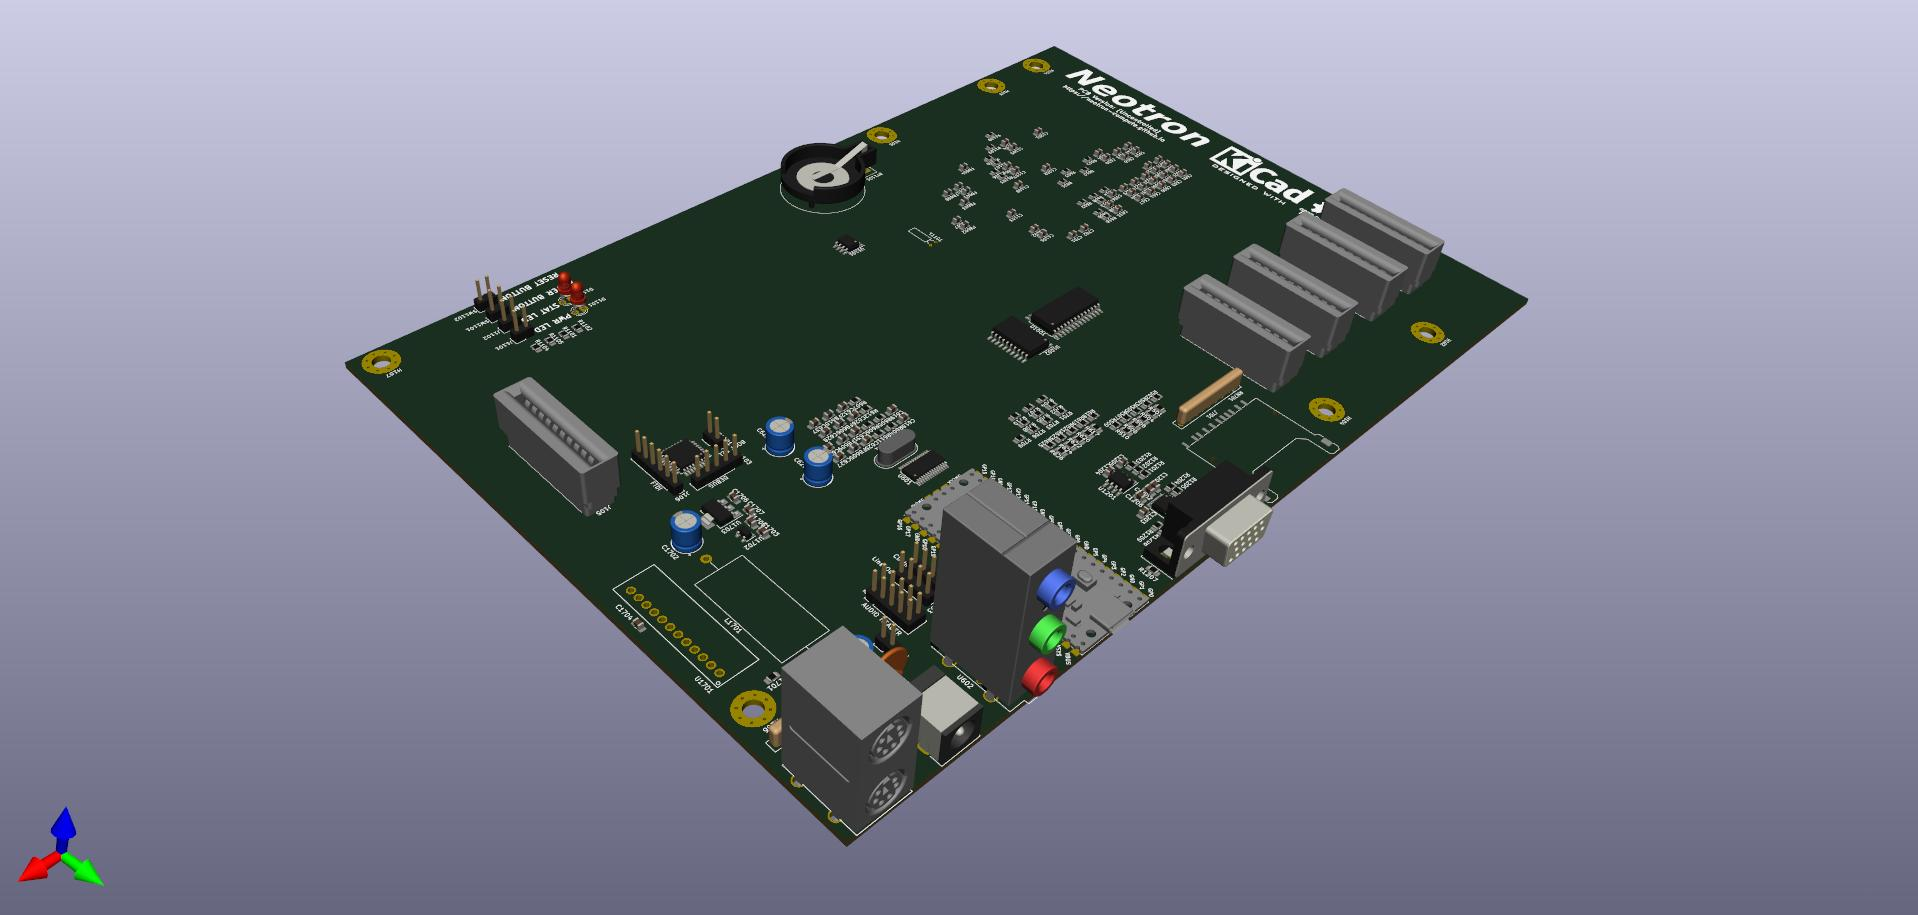
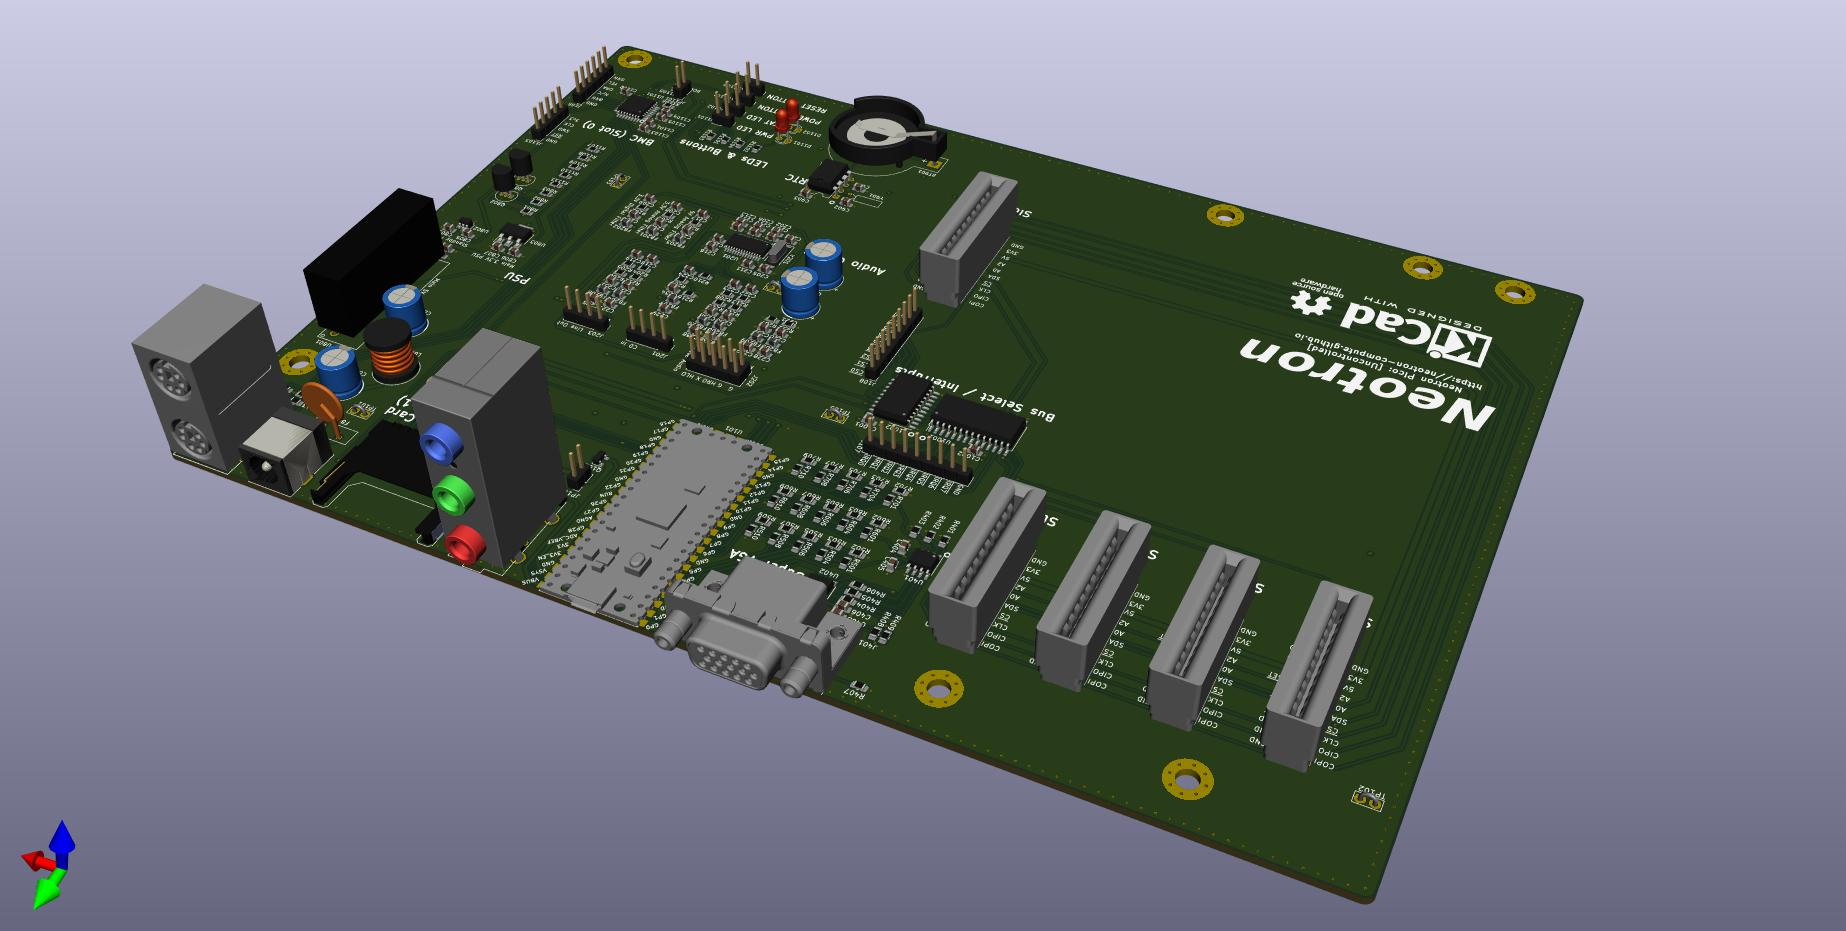
Update image and add to README

diff --git a/README.md b/README.md
@@ -4,6 +4,8 @@
 
 The Neotron Pico is based around the idea of the [Neotron-32](https://github.com/neotron-compute/Neotron-32-Hardware), but using a low-cost Raspberry Pi Pico instead of a Texas Instuments Tiva-C Launchpad. It also stretches out to full micro-ATX size, and adds more expansion slots so that you can easily design and add your own peripherals.
 
+![3D PCB View](./neotron-pico.jpg)
+
 ## Design
 
 The Raspberry Pi Pico is the core of the Neotron Pico. It uses PIO statemachines to generate 12-bit Super VGA video, and digital 16 bit 48 kHz stereo audio. It also has both I²C and SPI buses. SPI chipselects and IRQs are handled by an SPI-to-GPIO expander. This provides eight chip-selects and eight IRQs, to support up to eight expansion slots or peripherals. The eight chip-selects are gated with a tri-state bus transceiver, allowing the Pico to talk to either the I/O exander, or the selected expansion slot. The board has an SD Card fitted in the 'Slot 1' position, and the Board Management Controller in the 'Slot 0' position, leaving 'Slot 2' through to 'Slot 7' available for expansion. Each expansion slot has both I²C and SPI, along with unique chip-select and IRQ signals.
